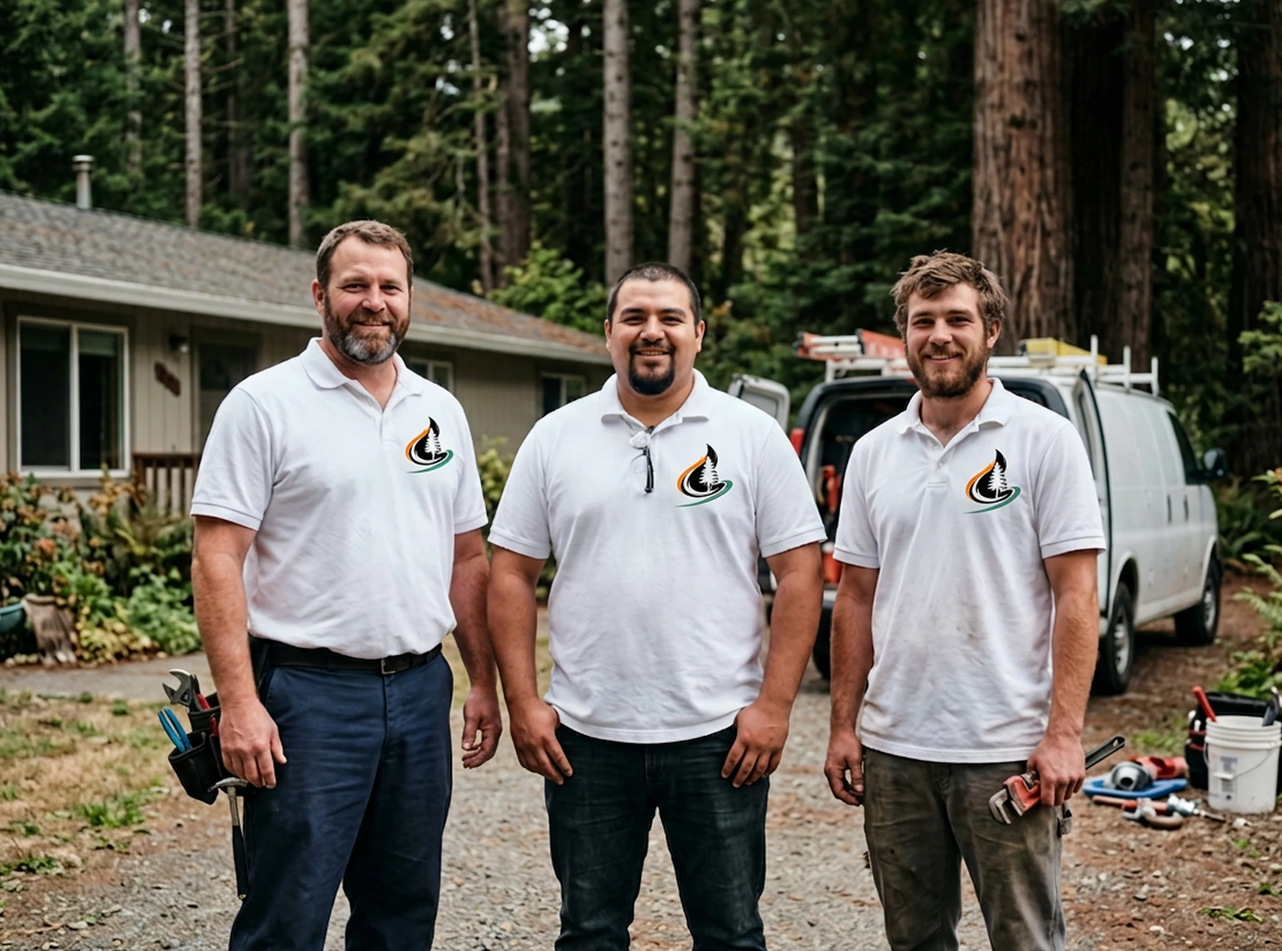
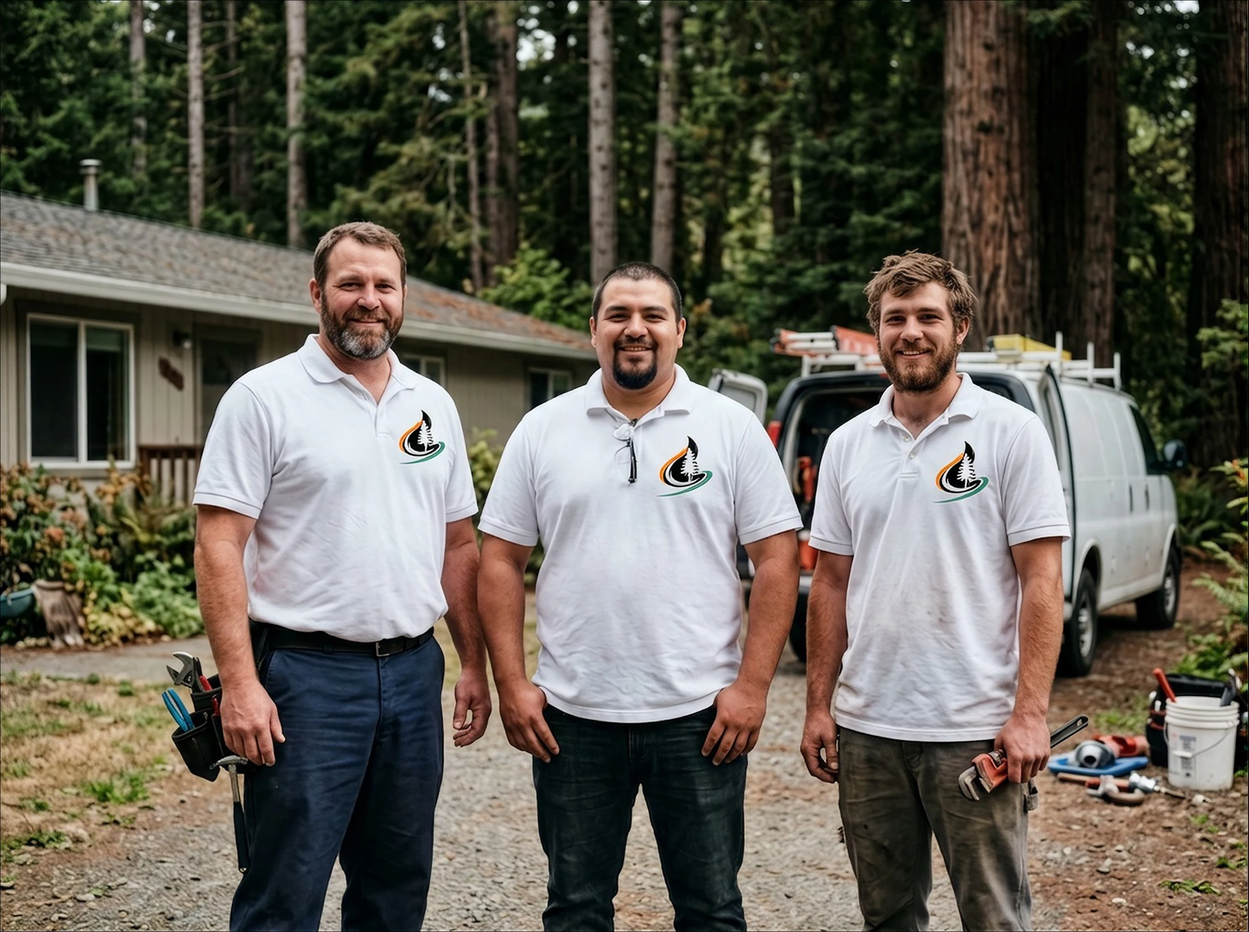
Sequoia: new crew photo, 10px page corners, flush How it works screen, Service Area left of Contact
Claude-Session: https://claude.ai/code/session_01UyFrCp8u1yEi1bc6XoshUG

diff --git a/src/data/cases.ts b/src/data/cases.ts
@@ -773,7 +773,7 @@ export const cases: CaseData[] = [
         { id: 'website', ch: 'Website', nav: 'Website', kind: 'intro', tone: '#1F5A40', title: 'Seven pages in two days', lede: 'The site had stalled at one page in a week. I wrote the brief and laid out all seven, then reviewed another designer’s build.', link: { label: 'Visit website', href: 'https://www.sequoiaplumbingandair.com/' }, twin: ['/images/seq-home-1.webp', '/images/seq-home-2.webp'], alt: 'The Sequoia Plumbing website: the home page with the branded van and offers, and below it the services section' },
         { id: 'service', ch: 'Website', nav: 'Website', kind: 'intro', tone: '#1F5A40', pages: true, cut: 31.66, twin: ['/images/seq-service.webp', '/images/seq-service.webp'], alt: 'A Sequoia Plumbing service page: the top on the left, and from the How it works section on the right' },
         { id: 'blog', ch: 'Website', nav: 'Website', kind: 'intro', tone: '#1F5A40', pages: true, twin: ['/images/seq-blog.webp', '/images/seq-article.webp'], alt: 'The Sequoia Plumbing blog page on the left and an article page on the right' },
-        { id: 'contact', ch: 'Website', nav: 'Website', kind: 'intro', tone: '#1F5A40', pages: true, twin: ['/images/seq-contact.webp', '/images/seq-area.webp'], alt: 'The Sequoia Plumbing contact page on the left and the service area page on the right' },
+        { id: 'contact', ch: 'Website', nav: 'Website', kind: 'intro', tone: '#1F5A40', pages: true, twin: ['/images/seq-area.webp', '/images/seq-contact.webp'], alt: 'The Sequoia Plumbing service area page on the left and the contact page on the right' },
         { id: 'outcome', ch: 'Next', nav: 'Next', kind: 'outro', tone: '#2A2E2D', title: 'Every touchpoint from one brand book', lede: 'Stickers, apparel, the van and the website now look like one company. The client was happy with how it came together.' },
       ],
     },
